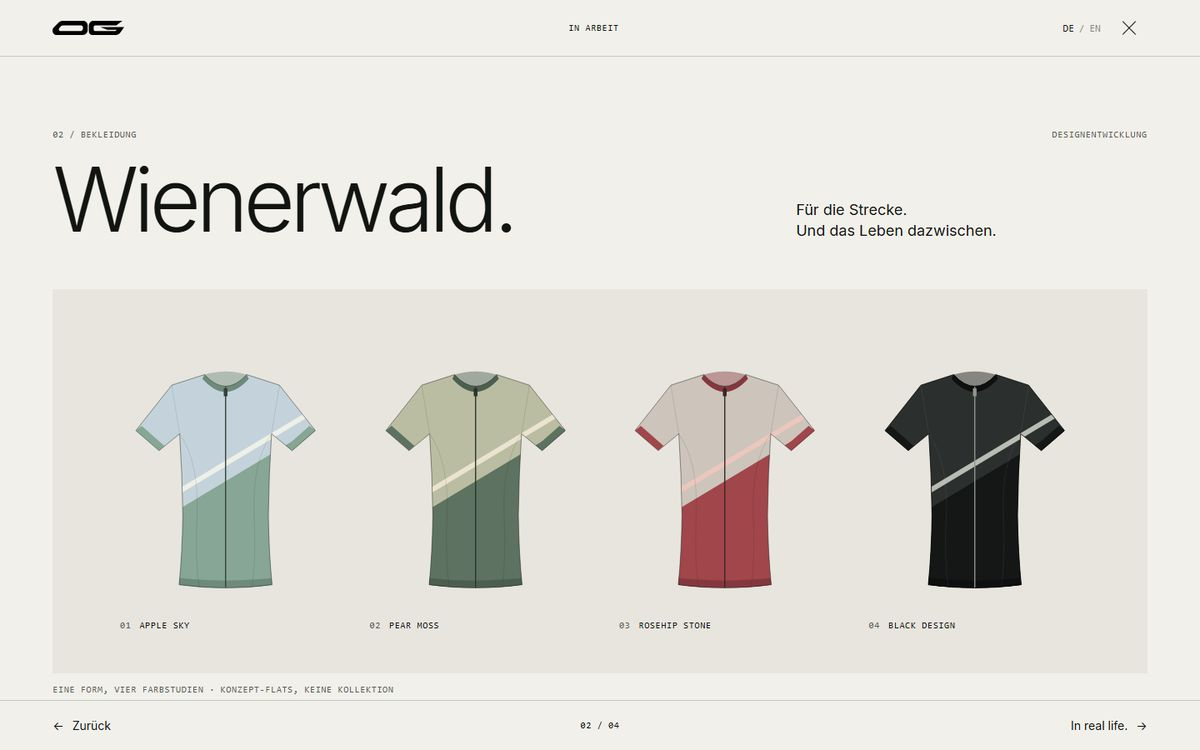
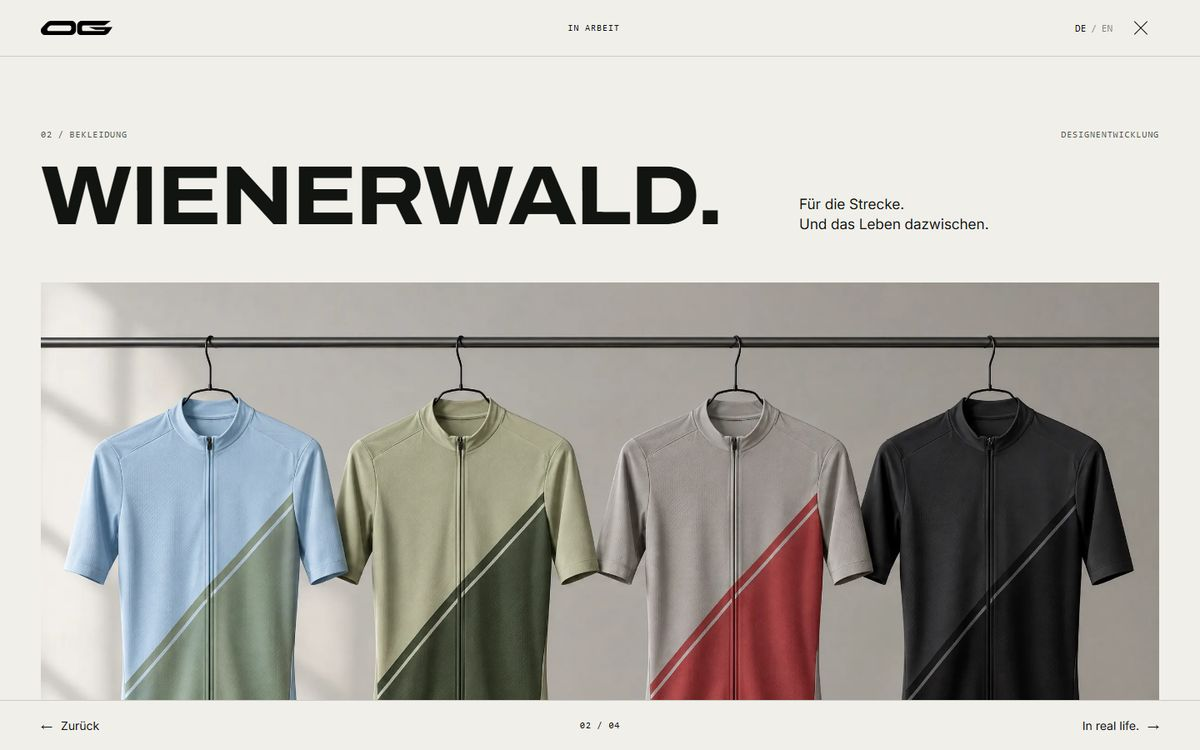
docs: v2 art direction, image provenance and review screenshots
- ART_DIRECTION.md: campaign, not concept; image table with labels,
  type system (Archivo/Inter self-hosted, OFL), brand retouch record
- PHOTO_CREDITS / photo_sources / asset_manifest list every shipped
  image with source and edit, plus the fonts
- AGENTS.md: v2 rules replace the v1 plate rules and the no-font rule
- legible label on the FASTR30 image; docs/review screenshots renewed

diff --git a/og-sports/docs/ART_DIRECTION.md b/og-sports/docs/ART_DIRECTION.md
@@ -1,92 +1,71 @@
-# OG SPORTS — Art direction (current, 2026-10-23)
+# OG SPORTS — Art direction (v2, 2026-10-23)
 
-Supersedes `REVIEW7_ART_DIRECTION.md` and `REVIEW8_ART_DIRECTION.md` (kept as history).
+Supersedes the v1 "every chapter is a frame" plates (same day) and Review 7/8.
 
-## The principle: every chapter is a frame
+## Why v2
 
-The opening worked because it is one confident image with one light, very large line
-of type. Below the fourth image the old page turned into a stack of differently styled
-blocks. The fix is one rule for the whole scroll:
+Fabi on v1: clean, but not yet high-end. The authored line plates (routes,
+dots, jersey flats) read as concept graphics next to a hero that is a real
+image. References he named: the opening of SOM Studios, big sport brands, F1.
+What those have in common is image weight and one loud type voice, not graphics.
 
-**The page is a sequence of ten frames, 00–09. Where we have honest photography we show
-photographs; where we do not, we show authored image plates. Every frame carries the
-same caption.**
+## The principle: campaign, not concept
 
-| Frame | Chapter | Ground | Image | Caption, right side |
-|---|---|---|---|---|
-| 00 | Opening | photo | approved AI image study `after-the-run` | image notes (i) |
-| 01–03 | Culture: detail, motion, people | paper | the three approved Unsplash photographs | photographer / Unsplash ↗ |
-| 04 | OG FASTR — movement | night | *Routes*: 23 different paths settle into one direction; one lime route is "you" | our routes are never the same. our direction is. |
-| 05 | FASTR30 — practice | night | *Practice field*: 30 days × 7 standards; the standards are the row labels | challenge concept · not health advice |
-| 06 | Apparel — Wienerwald | paper | *Line sheet*: one jersey flat in four colour studies | concept flats · not a collection, not for sale |
-| 07 | Live | paper, dark plate | *Gathering*: people arrive and stand in small circles; one lavender route closes the large circle | format sketch · no date yet |
-| 08 | FASTR STICK | paper, studio plate | *Drawing*: view A and half section A–A, proportions from CAD draft V0 | drawn from CAD draft V0 · untested, not a product |
-| 09 | Invitation + signature | night | the original OG SPORTS mark, full width | — |
+Every chapter carries a real image at full weight. Where we have no honest
+photograph we use our own campaign studies, an AI visualisation or a render —
+and say so in the caption, exactly where a photograph would name its author.
 
-The honesty notes that used to be disclaimers are now part of the caption grammar:
-the place where a photograph names its photographer is where a plate states its status.
+| | Chapter | Image | Label |
+|---|---|---|---|
+| 00 | Opening | approved AI image study (unchanged) | image notes (i) |
+| 01–03 | Strip, edge to edge (SOM-like) | three Unsplash photographs, brand marks retouched | photographer / Unsplash |
+| — | Statement | "For every version of you." | — |
+| 04 | OG FASTR | full-bleed ramp sprint, own Higgsfield study | KI-Kampagnenstudie |
+| 05 | FASTR30 | spiral car park from above, own Higgsfield study + seven-column rule grid | KI-Bildstudie · Challenge-Konzept |
+| 06 | Apparel / Wienerwald | four jerseys on a rail, AI visualisation of the colour studies | KI-Visualisierung · keine Kollektion |
+| 07 | Live | empty glass-dome car park, own Higgsfield study | KI-Raumstudie · noch kein Termin |
+| 08 | FASTR STICK | Blender studio render of the CAD draft V0 + generated half section | Render aus CAD-Entwurf V0 · ungeprüft |
+| 09 | Invitation + signature | original OG SPORTS mark | — |
 
 ## System
 
-- **Two grounds only.** Paper `#f1f0eb` and night `#121411`. The rhythm is
-  photo → paper → night (OG FASTR, FASTR30) → paper (things we make) → night (close).
-  Plates may sit as dark or light frames *inside* paper, like the photographs do.
-- **One display voice.** Light, mixed-case, tight display type for every chapter title,
-  the same voice as "Own greatness." No uppercase poster headlines, no two-colour
-  headline trick. Uppercase is reserved for the FASTR30 standard names (fixed brand terms).
-- **One caption voice.** Monospace, 11 px, uppercase, for frame numbers, captions and
-  labels. It reads like a contact sheet, which is what the page is.
-- **Accents with a job.** Lavender belongs to OG SPORTS (the "you" route in Live, "Same
-  feeling."). Lime `#E7FF1A` is taken from the OG FASTR wordmark and appears only in the
-  FASTR world (route, practice field, the stick body).
-- **No decoration.** No corner brackets, no arrows on non-links, no floating navigation,
-  no glow, no radar circles. Links are underlined text.
-- **Motion, once.** Three plates draw themselves the first time they are seen: the
-  routes, the practice field (day by day, `steps(30)`), the gathering. Nothing loops.
-  Without JavaScript or with `prefers-reduced-motion`, every plate is shown complete.
+- **Type.** Chapter titles: Archivo, wide (font-stretch 112 %), weight 750,
+  uppercase, tight — the sport-brand voice. Copy: Inter. Captions and labels:
+  system monospace, 11 px, uppercase. The opening title stays the approved
+  light outline "Own greatness." — light opening, heavy chapters.
+- **Fonts are self-hosted** (`site/fonts/`, latin subsets, SIL OFL 1.1,
+  licences next to the files). No requests to font services.
+- **Grounds.** Paper `#f0efea` and night `#0f100e`; images run edge to edge.
+- **Accents.** Lime `#E7FF1A` (from the OG FASTR wordmark) only in the FASTR
+  world: FASTR30 title, rule numbers, the STICK. Lavender stays OG SPORTS.
+- **Links** are uppercase text with a short rule that grows on hover.
+- **Motion.** Large images settle once (slight scale) and the FASTR30 field
+  fills once when seen. Nothing loops. Complete without JS and with reduced motion.
 
-## Fonts
+## No third-party brands
 
-No font files are shipped (project rule). The stack is Inter Display / Inter →
-Helvetica Neue → Arial; captions use the system monospace. Windows visitors without
-Inter see Arial, Mac visitors Helvetica Neue. The opening words are outlined SVG and
-look the same everywhere. **Launch decision:** a self-hosted, licensed webfont (Inter is
-SIL OFL) would make the typography identical on every device; that needs an explicit
-change of the "no bundled fonts" rule.
+- 01: the On mark on the heel removed by inpainting (OpenCV, local).
+- 03: bibs, ribbons, club shirt and banner text removed with an AI-assisted
+  retouch (Higgsfield, GPT Image 2.5, reference edit); faces, poses and light
+  compared side by side and unchanged.
+- 02, campaign studies, apparel visual, render: checked, no legible marks.
+- Tests fail if `run-detail.webp` / `run-community.webp` (originals with marks)
+  or the rejected stock files return.
 
-## Plates are generated, not hand-pasted
+## Sources and reproduction
 
-`scripts/authored_art.py` writes the SVG for routes, jersey, gathering and stick between
-`<!-- art:name -->` markers in `site/index.html`. Edit the generator, then
-
-    python scripts/authored_art.py --write
-    python scripts/authored_art.py --check   # fails if index.html and generator differ
-
-The jersey is one `<symbol>`; colourways are CSS custom properties on `.flat-*`.
-The stick proportions come from the CAD draft V0 parameters (outer diameter, closed
-height, bore, cup stroke, thread pitch). Those dimensions are proposals, not confirmed
-and not tested; the drawing prints no numbers.
+`scripts/prepare_images.py <sources>` writes every campaign image from its
+source (crop, size, quality listed in the script). `scripts/render_stick.py`
+renders the STICK from the CAD previews of the local prototype programme
+(`fastr-stick-prototype/output/preview/*_assembled.stl`).
+`scripts/authored_art.py` still generates the STICK half section.
 
 ## Truthfulness boundaries
 
-- Hero: an AI image study. The 4× file is a Lanczos resample with light sharpening; it
-  enlarges the format, not the detail. The image notes show the unchanged 1,373 × 485 px
-  original.
-- 01–03: real reference photographs, not our people, products or events. The licence is
-  not a model, property or trademark release (visible brand marks: On shoe, race bibs).
-- No photography below frame 03. The three previously rejected stock files were deleted
-  from `site/assets` (they remain in Git history).
-- Apparel: colour studies, not production colours, not a collection.
-- Live: a format sketch. No date, venue, line-up, partner or ticket is claimed.
-- STICK: drawing after a CAD draft; fit, sealing and fill volume untested; 30 ml is a target.
-- Contact: a local, copyable draft. Nothing is sent or stored.
-
-## Code structure
-
-- `site/index.html` — content, generated plates between markers
-- `site/styles.css` — the only stylesheet: tokens, base, shared parts, one section per
-  chapter, dialogs, motion, responsive (≤1180, ≤899, ≤600, ≤420, ≥1700), print
-- `site/script.js` — language, dialogs, project stories (cover = clone of the page
-  plate), deep links, contact draft, one-time motion trigger
-- `scripts/visual_review.py` — the browser suite; `review7_visual.py` / `review8_visual.py`
-  are the CI entry points the workflow names
+- Hero and 04/05/07 are AI image studies. They show no event that took place
+  and no OG team member.
+- 06 is an AI visualisation of colour studies, not a product photograph.
+- 08 shows CAD geometry with proposed dimensions; material and light are art
+  direction; fit, sealing and fill volume are untested; 30 ml is a target.
+- AI Act Art. 50: the AI labels are visible on the page, not only in notes.
+- Contact: local, copyable draft only.

diff --git a/og-sports/docs/PHOTO_CREDITS.md b/og-sports/docs/PHOTO_CREDITS.md
@@ -1,6 +1,26 @@
 # OG SPORTS — Bildnachweise
 
-## Aktueller Stand (2026-10-23)
+## Aktueller Stand (v2, 2026-10-23)
+
+| Frame | Datei | Art | Quelle / Bearbeitung |
+|---|---|---|---|
+| 00 | `after-the-run-display-4x.webp`, Original `after-the-run.webp` | bestehende KI-Bildstudie | OG SPORTS; 4× Lanczos-Kopie für die Anzeige |
+| 01 | `frame-01-detail.webp` | Fotografie David Moorhouse | https://unsplash.com/photos/close-up-of-a-runners-leg-and-athletic-shoe-GToHUINXOb4 — Herstellerzeichen am Schuh lokal entfernt (Inpainting) |
+| 02 | `run-shadow.webp` | Fotografie Mathias Reding | https://unsplash.com/photos/runners-legs-in-motion-with-a-long-shadow-G96xGokbTUM — unverändert |
+| 03 | `frame-03-people.webp` | Fotografie Leviosa Hou | https://unsplash.com/photos/runners-gathered-together-on-a-city-street-9ZXnEV7k2lI — Startnummern, Bänder, Shirt-Aufdrucke, Bannertext KI-gestützt retuschiert (Higgsfield, GPT Image 2.5), Gesichter verglichen und unverändert |
+| 04 | `campaign-ramp.webp` | KI-Kampagnenstudie | eigenes Higgsfield-Material `motion_zoom_ramp.png`, Ausschnitt ohne Plakattext |
+| 05 | `campaign-spiral.webp` | KI-Bildstudie | eigenes Higgsfield-Material `03_top_down.png` |
+| 06 | `apparel-studies.webp` | KI-Visualisierung | generiert 2026-10-23 (Higgsfield, GPT Image 2.5) aus unseren vier Farbstudien, ohne Logos |
+| 07 | `live-venue.webp` | KI-Raumstudie | eigenes Higgsfield-Material `01_empty_garage.png`, leerer Raum, keine Veranstaltung |
+| 08 | `stick-studio.webp` | Render | `scripts/render_stick.py` aus CAD-Entwurf V0 (fastr-stick-prototype) |
+
+Die Unsplash License erlaubt Bearbeitung; sie ist keine Model-, Property- oder Markenfreigabe. Fremde Marken sind aus 01 und 03 entfernt. Die KI-Bilder sind auf der Seite sichtbar gekennzeichnet (AI Act Art. 50). Die Originaldateien `run-detail.webp` und `run-community.webp` liegen nur noch in der Git-Historie.
+
+---
+
+## Historie
+
+## Stand v1 (2026-10-23, ersetzt)
 
 Auf der Seite stehen genau vier Bilder, alle im Kultur-Einstieg:
 

diff --git a/og-sports/README.md b/og-sports/README.md
@@ -9,18 +9,19 @@ Static website for the OG SPORTS parent brand and its OG FASTR movement, staged 
 Branch preview (follows the branch):
 https://raw.githack.com/Zilli-on/fastr-report/refs/heads/feat/og-sports-web/og-sports/site/index.html
 
-The PR description links the exact reviewed commit. raw.githack shows a notice first;
+The PR description links the exact reviewed commit (v2 campaign pass). raw.githack shows a notice first;
 choose **Open the page**. It is a public proxy for review, not hosting; `noindex` is not
 access protection.
 
 ## What it is
 
-One page in ten frames: the approved opening image, three approved reference
-photographs, then authored image plates for OG FASTR, FASTR30, the Wienerwald apparel
-studies, live formats and the FASTR STICK. See `docs/ART_DIRECTION.md`.
+A campaign page: the approved opening image, three reference photographs edge to
+edge (third-party marks retouched out), then our own OG FASTR campaign studies, an AI
+visualisation of the Wienerwald colour studies and a studio render of the FASTR STICK
+CAD, each labelled on the page. See `docs/ART_DIRECTION.md`.
 
 The contact flow prepares a local, copyable text draft only. Nothing is sent or stored.
-No analytics, commerce, booking, database or external font.
+No analytics, commerce, booking or database. Fonts (Archivo, Inter, SIL OFL) are self-hosted.
 
 ## Develop and check
 
@@ -49,7 +50,8 @@ fallback, skip link, focus trap, arrow keys and deep links. Reports and screensh
 `qa/` (ignored by Git). CI runs the same suite via `scripts/review7_visual.py` and
 `scripts/review8_visual.py` (`../.github/workflows/og-sports-review.yml`).
 
-Authored plates are generated into `site/index.html`:
+Images: `scripts/prepare_images.py <sources>` (crops and sizes) and `scripts/render_stick.py`
+(Blender, CAD previews). The STICK half section is generated into `site/index.html`:
 
 ```sh
 python scripts/authored_art.py --write

diff --git a/og-sports/AGENTS.md b/og-sports/AGENTS.md
@@ -49,3 +49,10 @@ Full rationale: `docs/ART_DIRECTION.md`.
 - Project stories reuse the page plate as their cover (cloned in `script.js`), so there is one drawing per project, not two.
 - FASTR STICK is drawn from the CAD draft V0 proportions; print no dimensions, keep "untested, not a product".
 - The rejected stock photographs (`running-photograph`, `cycling-photograph`, `movement-rooftop`) were removed from `site/assets`; tests fail if they return.
+
+## v2 — campaign, not concept (2026-10-23, Fabi: "noch nicht high end", "keine anderen Marken", SOM-Anfang + große Sportbrands/F1)
+Full rationale: `docs/ART_DIRECTION.md` (v2). This replaces the v1 plate decisions above where they conflict.
+- Every chapter carries a real image: 01–03 photographs as an edge-to-edge strip, then our own Higgsfield campaign studies (04, 05, 07), an AI visualisation of the apparel colour studies (06) and a Blender render of the STICK CAD (08). Each image below the photographs carries a visible label (KI-…studie / KI-Visualisierung / Render aus CAD-Entwurf V0); a test enforces it.
+- No third-party brands anywhere: marks retouched out of 01 and 03; originals must not ship.
+- Chapter titles in Archivo (wide, heavy, uppercase); copy in Inter; both self-hosted under SIL OFL in `site/fonts/`. The old "no font files" rule is replaced by "only self-hosted OFL fonts, licence next to the file, no font services".
+- Image pipeline: `scripts/prepare_images.py`, `scripts/render_stick.py`; FASTR30 rules are a seven-column grid.
